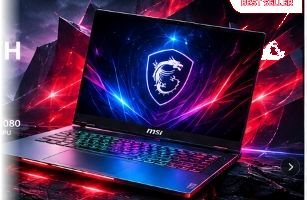
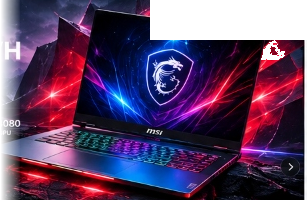
fix(storefront): cache-buster version for CSS and laptop image, transparent badge area

Changed region(s): [[0.4691, 0.0, 0.9967, 0.21]]

diff --git a/index.html b/index.html
@@ -9,7 +9,7 @@
   <link rel="preconnect" href="https://fonts.gstatic.com" crossorigin>
   <link href="https://fonts.googleapis.com/css2?family=Be+Vietnam+Pro:wght@400;500;600;700;800&family=Inter:wght@400;500;600;700;800&display=swap" rel="stylesheet">
   <!-- Storefront Design System & Styles (MVC View Styles) -->
-  <link rel="stylesheet" href="storefront/css/styles.css">
+  <link rel="stylesheet" href="storefront/css/styles.css?v=20261025_02">
 </head>
 <body>
   <div id="app"></div>

diff --git a/storefront/js/views/pages/home.view.js b/storefront/js/views/pages/home.view.js
@@ -446,7 +446,7 @@ async function viewHome() {
               </div>
 
               <div class="mhb-laptop-col">
-                <img src="${resolveAssetUrl('/uploads/msi_raider_laptop_seamless.png')}" alt="MSI Raider GE78HX" class="mhb-hero-laptop-img">
+                <img src="${resolveAssetUrl('/uploads/msi_raider_laptop_seamless.png?v=20261025_02')}" alt="MSI Raider GE78HX" class="mhb-hero-laptop-img">
               </div>
             </div>
 
